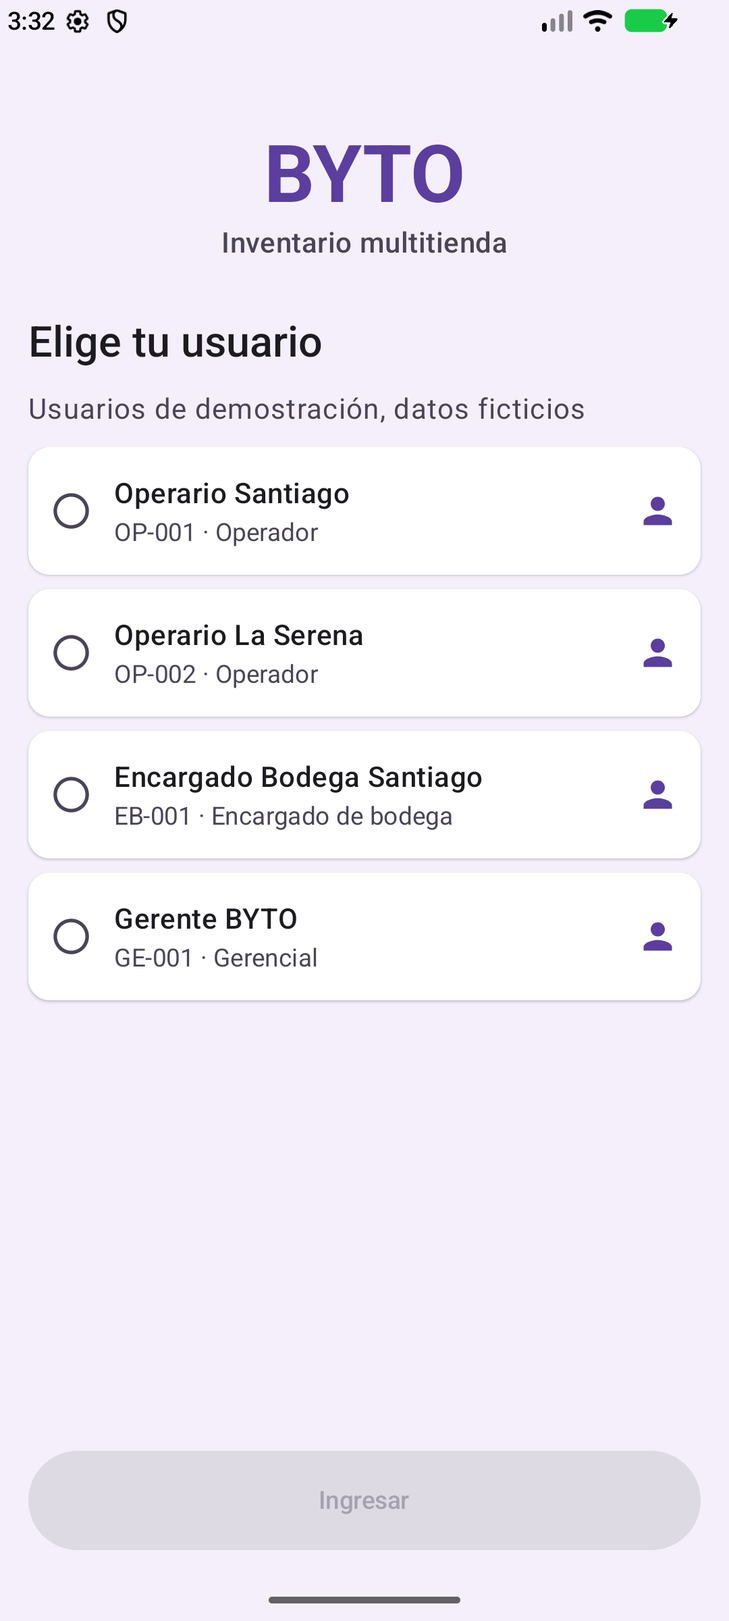
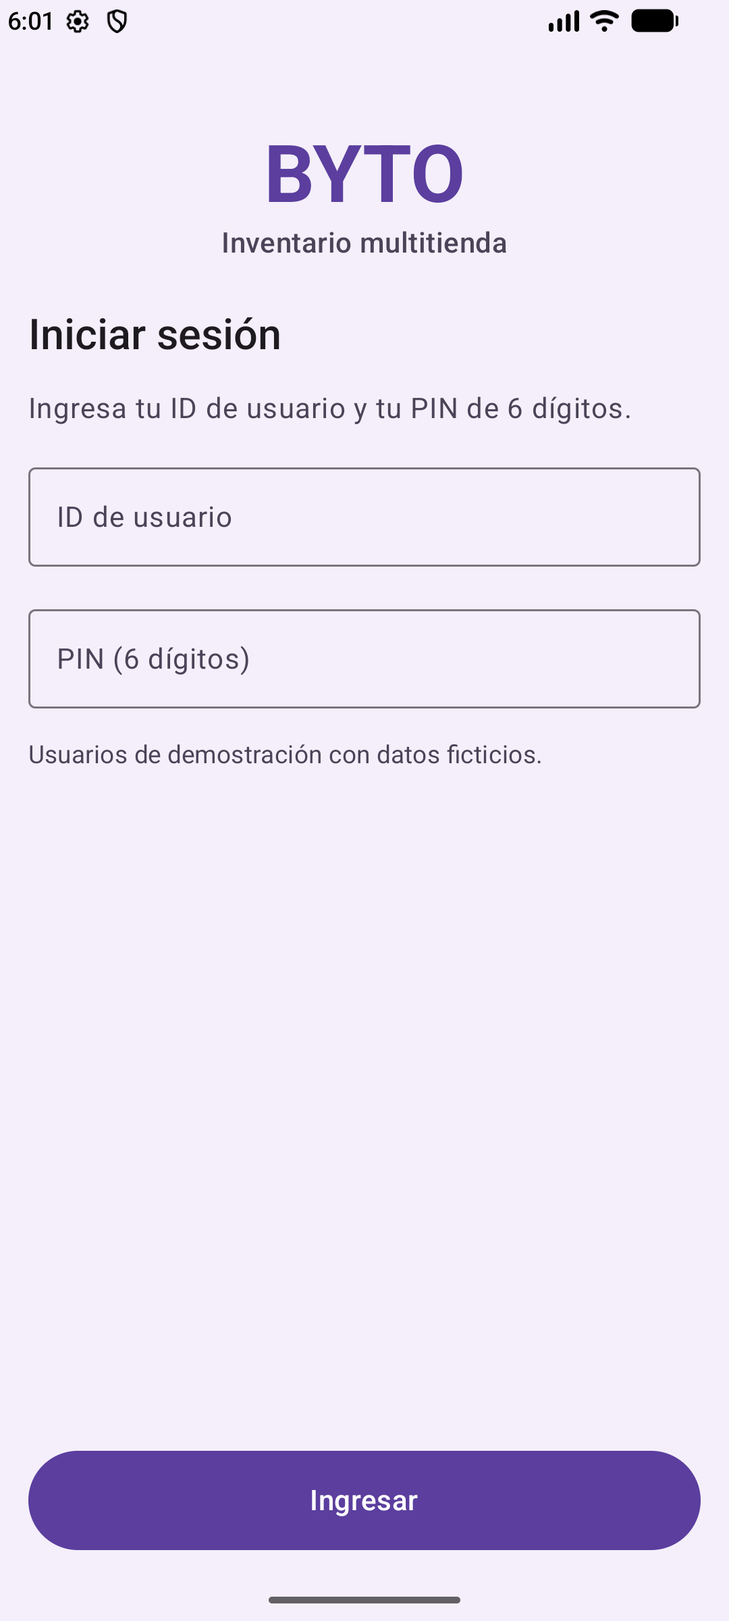
docs: actualizar decisiones, arquitectura, README y capturas
Login con PIN y endpoint 13 (POST /sesion), splash, escaner EAN-13, linterna y compartir CSV. Capturas nuevas de P00, P01 y P15.

diff --git a/README.md b/README.md
@@ -20,15 +20,15 @@ Tomadas en el emulador con los datos sintéticos; están en [`docs/capturas/`](d
 
 | Pantalla | Capturas |
 |---|---|
-| P00 Splash Screen | Animación de carga inicial y SplashScreen API |
-| P01 Login | Login con ID de usuario y PIN de 6 dígitos |
+| P00 Splash | [Splash del sistema](docs/capturas/P00_splash_sistema.png) · [Pantalla de carga](docs/capturas/P00_splash_carga.png) |
+| P01 Login | [ID y PIN](docs/capturas/P01_login.png) · [Error de validación](docs/capturas/P01_login_error_validacion.png) |
 | P08 Buscar por código | [Resultado](docs/capturas/P08_buscar_resultado.png) · [Error de validación](docs/capturas/P08_buscar_error_validacion.png) |
 | P09 Registrar movimiento | [Stock resultante](docs/capturas/P09_registrar_stock_resultante.png) · [Error de validación](docs/capturas/P09_registrar_error_validacion.png) |
 | P11 Alertas | [Alertas abiertas](docs/capturas/P11_alertas.png) |
 | P12 Declarar reposición | [Campos obligatorios](docs/capturas/P12_reposicion_campos_obligatorios.png) · [Reposición ya abierta](docs/capturas/P12_reposicion_ya_abierta.png) |
 | P13 Historial | [Movimientos](docs/capturas/P13_historial.png) · [Error de rango de fechas](docs/capturas/P13_historial_error_rango.png) |
 | P14 Ubicaciones | [Listado](docs/capturas/P14_ubicaciones.png) · [Confirmar desactivación](docs/capturas/P14_ubicaciones_confirmar.png) |
-| P15 Exportar reporte | [Formulario](docs/capturas/P15_exportar.png) · [Compartir CSV](docs/capturas/P15_exportar_error_validacion.png) |
+| P15 Exportar reporte | [Formulario](docs/capturas/P15_exportar.png) · [Error de validación](docs/capturas/P15_exportar_error_validacion.png) · [Compartir el reporte](docs/capturas/P15_exportar_compartir.png) |
 | P17 Escanear código | [Sin permiso de cámara](docs/capturas/P17_escaner_sin_permiso.png) · [Vista de la cámara (emulador)](docs/capturas/P17_escaner_camara_emulador.png) |
 
 ---
@@ -43,7 +43,7 @@ Tomadas en el emulador con los datos sintéticos; están en [`docs/capturas/`](d
 | Navegación | Navigation Compose |
 | Estado | StateFlow + ViewModel |
 | Persistencia local | Room (SQLite), con KSP |
-| Cámara y escáner | CameraX + ML Kit Barcode Scanning (compatible con todos los formatos: EAN, QR, Code 128, etc.) |
+| Cámara y escáner | CameraX + ML Kit Barcode Scanning (modelo incluido, funciona sin conexión; acepta los EAN-13 del catálogo y avisa ante cualquier otro código) |
 | Inyección de dependencias | Manual (AppContainer) |
 | Pruebas | JUnit (unitarias) y AndroidJUnit4 (instrumentadas, con Room en memoria) |
 | Control de versiones | Git + GitHub |
@@ -56,9 +56,9 @@ Tomadas en el emulador con los datos sintéticos; están en [`docs/capturas/`](d
 com.byto.inventario
 ├── di/                  Inyección de dependencias (AppContainer, FabricaViewModels)
 ├── domain/              Lógica pura con pruebas: ReglasInventario, ValidadorEan, Permisos,
-│                        Fechas, Regiones, ValidacionReposicion, ReporteCsv
+│                        Fechas, Regiones, ValidacionLogin, ValidacionReposicion, ReporteCsv
 ├── data/
-│   ├── model/           Modelos (Producto, Existencia, Movimiento, Alerta, Ubicacion, Usuario con PIN…)
+│   ├── model/           Modelos (Producto, Existencia, Movimiento, Alerta, Ubicacion, Usuario…)
 │   ├── repository/      Contratos (InventarioRepository, SesionRepository, SimuladorConexion)
 │   ├── local/           Room: BytoDatabase, entidades, DAOs y LocalInventarioRepository
 │   └── fake/            Datos sintéticos y repositorio en memoria (para pruebas)
@@ -86,8 +86,8 @@ com.byto.inventario
 
 | Código | Pantalla |
 |---|---|
-| P00 | Splash Screen: pantalla de carga inicial animada en Jetpack Compose |
-| P01 | Login profesional con credenciales (ID de usuario y contraseña de 6 dígitos / PIN) |
+| P00 | Splash: splash del sistema (SplashScreen API) y pantalla de carga en Jetpack Compose |
+| P01 | Login con ID de usuario y PIN de 6 dígitos; el repositorio verifica las credenciales |
 | P02 | Selección de ubicación |
 | P03 | Inicio Operador |
 | P04 | Inicio Encargado |
@@ -103,18 +103,18 @@ com.byto.inventario
 | P14 | Administrar ubicaciones (Gerente): activar o desactivar tiendas y bodegas |
 | P15 | Exportar reporte (Gerente): stock, movimientos o alertas en CSV con opción de compartir |
 | P16 | Sin conexión |
-| P17 | Escanear código: lectura universal de códigos de barras y QR (CameraX + ML Kit) y vibración al leer |
+| P17 | Escanear código: lectura de EAN-13 con la cámara (CameraX + ML Kit), aviso de error ante QR u otros códigos y vibración al leer |
 
 ### Funcionalidades transversales implementadas
 
 | Funcionalidad | Detalle |
 |---|---|
 | Persistencia local | Room: movimientos, alertas y estado de las ubicaciones se conservan al cerrar la app |
-| Recursos nativos | Cámara (escáner universal), almacenamiento ("Guardar como"), compartir archivos (`Intent.ACTION_SEND` para CSV) y vibración |
+| Recursos nativos | Cámara (escáner EAN-13 con linterna y manejo del permiso), almacenamiento ("Guardar como"), compartir archivos (`Intent.ACTION_SEND` para CSV) y vibración |
 | Formularios validados | Errores por campo con ícono y texto en todos los formularios (P01, P08, P09, P12, P13 y P15); reglas en `domain/` con pruebas unitarias |
 | Animaciones | Transiciones entre pantallas, splash de carga (P00), resultado de búsqueda (P08), stock resultante (P09), confirmación (P10), filas de listas (P11, P13), estado de ubicaciones (P14), marco del escáner (P17) y mensajes de error |
 | Accesibilidad | Botones de 48 dp o más, contraste ≥ 4,5:1, estados siempre con texto además del color y descripciones para TalkBack |
-| Privacidad | Autenticación con ID y PIN de 6 dígitos; los datos no se respaldan en la nube; únicos permisos: cámara y vibración |
+| Privacidad | Solo IDs anonimizados (OP-001, EB-001…); login con ID y PIN ficticio de 6 dígitos que las pantallas nunca reciben; los datos no se respaldan en la nube; únicos permisos: cámara y vibración |
 
 ---
 
@@ -128,12 +128,14 @@ En el primer arranque la app guarda en Room estos datos ficticios; desde ahí, c
 - **300 existencias** (12 ubicaciones × 25 productos)
 - **6 movimientos históricos** y **7 alertas iniciales** preconfiguradas
 
-| Usuario | Perfil | PIN | Ubicaciones |
-|---|---|---|---|
-| OP-001 · Operario Santiago | Operador | 123456 | T-ST-1, T-ST-2, T-ST-3 |
-| OP-002 · Operario La Serena | Operador | 123457 | T-LS-1, T-LS-2, T-LS-3 |
-| EB-001 · Encargado Bodega Santiago | Encargado de bodega | 123458 | B-ST-1 y consulta de T-ST-1 a T-ST-3 |
-| GE-001 · Gerente BYTO | Gerente | 123459 | Todas |
+| Usuario | Perfil | Ubicaciones |
+|---|---|---|
+| OP-001 · Operario Santiago | Operador | T-ST-1, T-ST-2, T-ST-3 |
+| OP-002 · Operario La Serena | Operador | T-LS-1, T-LS-2, T-LS-3 |
+| EB-001 · Encargado Bodega Santiago | Encargado de bodega | B-ST-1 y consulta de T-ST-1 a T-ST-3 |
+| GE-001 · Gerente BYTO | Gerente | Todas |
+
+Cada usuario tiene un PIN ficticio de 6 dígitos. Están definidos en un solo lugar, `DatosSinteticos.pinesDemo` (`app/src/main/java/com/byto/inventario/data/fake/DatosSinteticos.kt`), y listados en la guía de demostración.
 
 ---
 
@@ -159,11 +161,11 @@ Umbrales de stock: Normal ≥ 10 · Bajo 5–9 · Crítico 1–4 · Sin stock 0.
 2. Abrir la carpeta en **Android Studio** (una versión reciente, compatible con Android Gradle Plugin 9.4).
 3. Esperar a que termine la sincronización de Gradle (o usar **File › Sync Project with Gradle Files**).
 4. Elegir un emulador o teléfono con **Android 8.0 (API 26)** o superior.
-5. Ejecutar con **Run › Run 'app'** y autenticarse con el ID de usuario y PIN de 6 dígitos en el login (P01).
+5. Ejecutar con **Run › Run 'app'** e iniciar sesión en el login (P01) con un ID de usuario y su PIN de demostración (ver "Datos sintéticos").
 
 > No se requiere backend, cuentas ni claves.
 
-**Probar el escáner (P17):** abre `docs/anexos/codigos_prueba_EAN13.html` en el navegador (o imprímelo al 100 %) y escanea cualquiera de los 25 códigos (o cualquier código QR/barras real) desde Buscar por código › Escanear con cámara. En el emulador, configura la cámara trasera como *Webcam0* en el Device Manager, o usa un teléfono real.
+**Probar el escáner (P17):** abre `docs/anexos/codigos_prueba_EAN13.html` en el navegador (o imprímelo al 100 %) y escanea cualquiera de los 25 códigos desde Buscar por código › Escanear con cámara. En el emulador, configura la cámara trasera como *Webcam0* en el Device Manager, o usa un teléfono real.
 
 **Ver la pantalla Sin conexión (P16):** en el login, mantén presionado el título "BYTO" para cortar la conexión simulada; repite el gesto para restablecerla.
 

diff --git a/docs/decisiones_E1.md b/docs/decisiones_E1.md
@@ -14,18 +14,18 @@ Documento vivo con las decisiones confirmadas por el estudiante. Fuente para las
 - Sin backend: lo construirá el estudiante en una entrega posterior, con un supervisor.
 - **Persistencia local con Room**: los datos sobreviven al cierre de la app (reemplaza la decisión anterior de "datos solo en memoria").
 - **Escáner con cámara: obligatorio en E2** (Caso §3.3 y §4.1, confirmado por el estudiante).
-- QR: fuera del alcance (solo EAN-13).
+- QR y otros formatos: el escáner los detecta, pero solo acepta EAN-13 (el formato del catálogo); ante cualquier otro código muestra un aviso de error y sigue escaneando.
 
 ## Requisitos de la rúbrica (Evaluación Parcial 2) y cómo se cumplen
 | Indicador | Peso | Cómo lo cumple BYTO |
 |---|---|---|
-| IE 2.1.1 Interfaz y navegación | 15 % | Pantallas P01–P17 según los mockups, barra inferior y navegación por perfil |
+| IE 2.1.1 Interfaz y navegación | 15 % | Pantallas P00–P17 (P01–P16 según los mockups), barra inferior y navegación por perfil |
 | IE 2.1.2 Formularios validados | 15 % | Validación por campo con mensaje e ícono (ver "Formularios y validaciones") |
 | IE 2.2.1 Validación desacoplada | 10 % | Reglas en `domain/`; el ViewModel valida y la pantalla solo muestra el estado |
 | IE 2.2.2 Animaciones | 10 % | Ver "Animaciones" |
 | IE 2.3.1 Modularidad y persistencia local | 15 % | MVVM por capas + Room detrás de `InventarioRepository` |
 | IE 2.3.2 GitHub + Trello | 20 % | Commits técnicos de ambos integrantes y tablero Trello con tareas repartidas (fuera del código) |
-| IE 2.4.1 Dos o más recursos nativos | 15 % | Cámara (escáner), almacenamiento de archivos (CSV) y vibración |
+| IE 2.4.1 Dos o más recursos nativos | 15 % | Cámara con linterna (escáner), almacenamiento de archivos (CSV), compartir el CSV con otras apps y vibración |
 
 - Entrega: repositorio **público** en GitHub, README con nombres e instrucciones, y el mismo código subido a AVA.
 - **Ningún cambio al repositorio después de la fecha de entrega** (la pauta lo sanciona con nota 1.0).
@@ -51,13 +51,17 @@ Documento vivo con las decisiones confirmadas por el estudiante. Fuente para las
 | T-CC-2 | BYTO Concepción Norte | Tienda | B-CC-1 | Activa |
 | T-CC-3 | BYTO Concepción Sur | Tienda | B-CC-1 | **Inactiva** (para demostrar la administración de tiendas) |
 
-## Usuarios simulados (login sin contraseña, selección desde una lista)
+## Usuarios simulados (login con ID de usuario y PIN de 6 dígitos)
 | ID anonimizado | Etiqueta | Perfil | Ubicaciones |
 |---|---|---|---|
 | OP-001 | Operario Santiago | Operador | T-ST-1, T-ST-2, T-ST-3 |
 | OP-002 | Operario La Serena | Operador | T-LS-1, T-LS-2, T-LS-3 |
 | EB-001 | Encargado Bodega Santiago | Encargado de bodega | B-ST-1 + T-ST-1, T-ST-2, T-ST-3 (consulta) |
 | GE-001 | Gerente BYTO | Gerencial | Todas |
+
+- El login (P01) pide el ID anonimizado y un PIN de 6 dígitos. Los PIN son ficticios, de demostración, y están escritos en un solo lugar del código (`DatosSinteticos.pinesDemo`); para la presentación se listan en la guía de demostración.
+- La verificación la hace el repositorio (`autenticar`, endpoint 13): los ViewModels y las pantallas nunca reciben los PIN. Con el backend real, la hará el servidor.
+- El ID se acepta en mayúsculas o minúsculas ("op-001" = "OP-001").
 
 ## Umbrales de stock (globales, iguales para todos los productos y ubicaciones)
 | Estado | Condición | Uso en E2 |
@@ -177,19 +181,21 @@ Sin marcas. Ropa en talla única M (las tallas como variantes quedan fuera de E2
 ## Persistencia local (Room)
 - Room guarda ubicaciones (con su estado activa/inactiva), productos, existencias, movimientos y alertas.
 - **Primer arranque**: si la base está vacía, se carga con los datos de este documento (`DatosSinteticos`). Desde ahí, todo cambio queda guardado al cerrar la app.
-- Los usuarios simulados siguen definidos en el código (son fijos y no se editan).
-- La sesión (usuario y ubicación activa) sigue en memoria: al abrir la app se vuelve a elegir usuario.
+- Los usuarios simulados y sus PIN de demostración siguen definidos en el código (`DatosSinteticos`; son fijos y no se editan).
+- La sesión (usuario y ubicación activa) sigue en memoria: al abrir la app hay que iniciar sesión de nuevo.
 - Para volver a los datos iniciales en una demostración: borrar los datos de la app desde los ajustes de Android.
 - Sin respaldo automático (`allowBackup="false"` y reglas que excluyen todo): el inventario no se copia a la nube ni a otro teléfono (Caso §5.1), y al reinstalar la app vuelve a los datos iniciales.
 
 ## Recursos nativos del dispositivo
 | Recurso | Dónde se usa | Permiso | Comportamiento |
 |---|---|---|---|
-| **Cámara** (escáner EAN-13) | P17 Escanear código, desde P08 | `CAMERA`, pedido al usarlo | Lee el código y abre el producto encontrado. Si el permiso se niega, se explica por qué hace falta, se ofrece abrir los ajustes y la búsqueda manual de P08 sigue disponible. |
+| **Cámara** (escáner EAN-13, con linterna) | P17 Escanear código, desde P08 | `CAMERA`, pedido al usarlo | Lee el código y abre el producto encontrado. Un botón enciende la linterna (flash) para leer con poca luz. Si el permiso se niega, se explica por qué hace falta, se ofrece abrir los ajustes y la búsqueda manual de P08 sigue disponible. |
 | **Almacenamiento de archivos** (reporte CSV) | P15 Exportar reporte | Ninguno | El sistema abre "Guardar como" y el usuario elige la carpeta (por ejemplo, Descargas). Funciona igual desde Android 8. |
 | **Vibración** | P17 al leer un código | `VIBRATE` (se concede al instalar) | Vibración corta al leer un código. Siempre va acompañada de un aviso visual, nunca es la única señal. |
+| **Compartir archivos** | P15, después de guardar | Ninguno | Abre el selector de apps del sistema (`Intent.ACTION_SEND`) con el CSV recién guardado. El botón "Compartir el último reporte" queda disponible tras el primer guardado. |
 
-- Lectura solo de EAN-13 (formato del catálogo), con el modelo de ML Kit incluido en la app para que funcione sin conexión.
+- ML Kit (modelo incluido en la app, funciona sin conexión) detecta todos los formatos, pero solo se acepta un EAN-13 válido (formato del catálogo). Si en la imagen hay varios códigos, se usa el primero válido. Ante un QR u otro código se muestra "Ese código no es de un producto BYTO…" y se sigue escaneando.
+- Un EAN-13 válido que no corresponde a un producto de la ubicación vuelve a P08, que muestra "Producto no encontrado en esta ubicación".
 - El código leído pasa por la misma validación que la búsqueda manual (`ValidadorEan`).
 - Pantalla nueva **P17 Escanear código** (sin mockup): vista de la cámara a pantalla completa con un marco guía, botón Volver y el texto "Apunta al código de barras". Se abre con el botón "Escanear con cámara" de P08.
 - En el mockup P08, la ayuda "La lectura con cámara estará disponible en la entrega final" se reemplaza por "13 dígitos, o usa la cámara".
@@ -213,6 +219,8 @@ Cada campo muestra su error debajo, con ícono y texto. El color nunca es la ún
 
 | Pantalla | Campo | Validación |
 |---|---|---|
+| P01 Login | ID de usuario | Obligatorio; debe existir (lo verifica el repositorio) |
+| | PIN | Obligatorio; exactamente 6 dígitos; debe ser el del usuario (lo verifica el repositorio) |
 | P08 Buscar por código | EAN-13 | Obligatorio; solo dígitos; exactamente 13; dígito verificador correcto; producto existente |
 | P09 Registrar movimiento | Tipo | Obligatorio |
 | | Cantidad | Según el tipo (ver "Reglas de movimientos"); salida ≤ stock; ajuste no deja stock < 0 |
@@ -226,6 +234,7 @@ Cada campo muestra su error debajo, con ícono y texto. El color nunca es la ún
 
 ## Animaciones
 Las animaciones deben dar fluidez o retroalimentación, no decorar. Respetan la escala de animación del sistema, que Compose aplica automáticamente.
+- Splash al abrir la app: primero el del sistema (SplashScreen API) y luego la pantalla de carga P00 en Compose.
 - Transición entre pantallas (fundido y desplazamiento) en Navigation Compose.
 - Aparición y desaparición de los mensajes de error por campo y del resultado de P08.
 - Cambio animado del "stock resultante" en P09 y del color de los chips de estado.

diff --git a/docs/arquitectura_API.md b/docs/arquitectura_API.md
@@ -3,6 +3,7 @@
 Confirmado por el estudiante:
 - **Etapa (c)**: Navigation Compose, retardo simulado (~300 ms) e interruptor de "sin conexión".
 - **Entrega 2**: Room para la persistencia local, cámara con CameraX y ML Kit, exportación CSV y vibración.
+- **Mejoras posteriores**: splash (SplashScreen API + P00), login con ID y PIN verificado por el repositorio, linterna en el escáner y compartir el CSV.
 
 ## Arquitectura
 - App Android: Kotlin + Jetpack Compose + MVVM, un solo módulo.
@@ -14,7 +15,7 @@ Confirmado por el estudiante:
 - Reglas de negocio puras en `domain/ReglasInventario` (cálculo de stock resultante, estado del stock y validaciones). En E2 las usan el repositorio local y la vista previa de "stock resultante". Cuando exista el backend, él será la autoridad y la app las usará solo para la vista previa.
 - Sesión (usuario y ubicación activa) en memoria, en `SesionRepository`.
 - Dependencias creadas a mano en `AppContainer` (sin Hilt ni Koin). `AppContainer` crea la base de datos de Room una sola vez para toda la app.
-- **Recursos nativos** (cámara, archivos y vibración):
+- **Recursos nativos** (cámara con linterna, archivos, compartir y vibración):
   - Viven fuera de los repositorios de inventario, en `dispositivo/`, para que la lógica no dependa de Android y siga siendo fácil de probar.
   - La pantalla pide los permisos y abre los selectores del sistema, porque estas APIs necesitan una Activity.
   - El ViewModel decide qué hacer con el resultado.
@@ -26,7 +27,7 @@ com.byto.inventario
 ├── BytoApp.kt                 (Application: crea el AppContainer)
 ├── MainActivity.kt
 ├── di/AppContainer.kt
-├── domain/                    (ReglasInventario, ValidadorEan, Permisos, Fechas, ReporteCsv: lógica pura)
+├── domain/                    (ReglasInventario, ValidadorEan, ValidacionLogin, ValidacionReposicion, Permisos, Fechas, Regiones, ReporteCsv: lógica pura)
 ├── data/
 │   ├── model/                 (Ubicacion, Producto, Existencia, Movimiento, Alerta, Usuario, enums)
 │   ├── repository/            (InventarioRepository, SesionRepository)
@@ -37,7 +38,7 @@ com.byto.inventario
     ├── theme/                 (colores y tipografía accesibles)
     ├── navigation/            (rutas y NavHost)
     ├── components/            (botones, tarjetas, chips de estado reutilizables)
-    └── screens/               (login, seleccion, inicio, inventario, detalle, buscar, escaner, movimiento,
+    └── screens/               (splash, login, seleccion, inicio, inventario, detalle, buscar, escaner, movimiento,
                                 alertas, reposicion, historial, ubicaciones, exportar, sinconexion)
 ```
 
@@ -49,7 +50,8 @@ com.byto.inventario
 | Room (runtime + ktx + compiler) | Persistencia local en SQLite | E2 | Aprobada |
 | KSP (plugin de Gradle) | Genera el código de Room a partir de las anotaciones | E2 | Aprobada |
 | CameraX (core, camera2, lifecycle, view) | Mostrar la cámara y entregar imágenes al lector | E2 | Aprobada |
-| ML Kit Barcode Scanning (modelo incluido) | Reconocer el EAN-13 en las imágenes, sin conexión | E2 | Aprobada |
+| ML Kit Barcode Scanning (modelo incluido) | Detectar códigos en las imágenes, sin conexión (la app solo acepta EAN-13) | E2 | Aprobada |
+| Core SplashScreen (`androidx.core:core-splashscreen`) | Splash del sistema al abrir la app, igual en todas las versiones de Android | E2 | Aprobada |
 | Retrofit + convertidor JSON | Llamar a la API REST | Futuro | A decidir |
 
 La vibración y el guardado de archivos usan APIs propias de Android (`Vibrator` y "Guardar como" del sistema) y no requieren librerías.
@@ -67,14 +69,14 @@ No se piden otros permisos. El CSV se guarda con el selector del sistema, que no
 - Fechas: ISO-8601 en UTC, por ejemplo `2026-10-16T13:10:00Z`. La hora del movimiento la asigna el servidor, no el teléfono.
 - Errores: `{ "codigo": "STOCK_INSUFICIENTE", "mensaje": "La salida (5) supera el stock actual (3)." }`
 - Códigos HTTP: 200 OK, 201 creado, 400 datos inválidos, 404 no existe, 409 conflicto de regla (por ejemplo, ubicación inactiva).
-- Autenticación: no definida aún. En E2 el login elige un usuario de una lista. Cuando exista el backend, el servidor debe obtener el operador desde la sesión o el token, no desde el cuerpo de la petición.
+- Autenticación: en E2 el login pide ID de usuario y PIN de 6 dígitos, y el repositorio local los verifica (endpoint 13). Cuando exista el backend, el servidor verificará las credenciales, devolverá un token y obtendrá el operador desde la sesión o el token, no desde el cuerpo de la petición.
 
 ## Endpoints
 En E2 no hay servidor: cada endpoint corresponde a una función de `InventarioRepository`, que implementa el repositorio local. La columna "E2" indica si la app ya lo usa.
 
 | # | Método y ruta | Para qué | Perfil | E2 |
 |---|---|---|---|---|
-| 1 | `GET /usuarios/demo` | Lista de usuarios ficticios para el login simulado | Todos | Sí |
+| 1 | `GET /usuarios/demo` | Lista de usuarios ficticios, sin PIN (filtro de operador del historial) | Encargado, Gerente | Sí |
 | 2 | `GET /ubicaciones?usuarioId=` | Ubicaciones asignadas al usuario (todas si es Gerente) | Todos | Sí |
 | 3 | `PATCH /ubicaciones/{id}` | Habilitar o deshabilitar una ubicación `{ "estado": "ACTIVA" }` | Gerente | Sí |
 | 4 | `GET /ubicaciones/{id}/existencias?q=&estado=` | Inventario de una ubicación con búsqueda y filtro (NORMAL, BAJO, CRITICO, SIN_STOCK) | Operador, Encargado, Gerente | Sí |
@@ -86,6 +88,7 @@ En E2 no hay servidor: cada endpoint corresponde a una función de `InventarioRe
 | 10 | `POST /alertas/reposicion` | Declarar reposición `{ "ubicacionId", "codigoInterno", "observacion" }` (observación opcional) | Encargado | Sí |
 | 11 | `PATCH /alertas/{id}` | Marcar descalce como revisado `{ "estado": "REVISADA" }` | Encargado, Gerente | Sí |
 | 12 | `GET /tablero` | Resumen: totales por ubicación y alertas abiertas | Gerente | Sí |
+| 13 | `POST /sesion` | Iniciar sesión `{ "usuarioId", "pin" }`; devuelve el usuario | Todos | Sí (login P01) |
 
 La exportación CSV (P15) no es un endpoint: la app arma el archivo con los datos que ya obtiene de los endpoints 4, 8 y 9 (Caso §3.4: "se simulará localmente").
 
@@ -124,7 +127,7 @@ Respuesta `201 Created`
 ```
 
 ## Interfaz `InventarioRepository` (Kotlin)
-Una función `suspend` por endpoint; el número es el del endpoint. La implementan `LocalInventarioRepository` (E2, Room) y `FakeInventarioRepository` (pruebas). En el futuro la implementará también `RemoteInventarioRepository`. Código en `data/repository/InventarioRepository.kt`.
+Una función `suspend` por endpoint; el número es el del endpoint. `Usuario` no incluye el PIN: solo `autenticar` lo recibe. La implementan `LocalInventarioRepository` (E2, Room) y `FakeInventarioRepository` (pruebas). En el futuro la implementará también `RemoteInventarioRepository`. Código en `data/repository/InventarioRepository.kt`.
 
 ```kotlin
 interface InventarioRepository {
@@ -147,6 +150,7 @@ interface InventarioRepository {
     ): Alerta
     suspend fun marcarDescalceRevisado(alertaId: String): Alerta                         // 11
     suspend fun obtenerTablero(): Tablero                                                // 12
+    suspend fun autenticar(usuarioId: String, pin: String): Usuario                      // 13
 }
 ```
 
@@ -165,6 +169,7 @@ Tipos de apoyo (en `data/model/`):
 | Código | HTTP | Cuándo |
 |---|---|---|
 | `NO_ENCONTRADO` | 404 | Usuario, ubicación, existencia o alerta inexistente |
+| `PIN_INCORRECTO` | 401 | El PIN no corresponde al usuario (login) |
 | `CANTIDAD_INVALIDA` | 400 | Cantidad fuera de lo permitido para el tipo de movimiento |
 | `STOCK_INSUFICIENTE` | 400 | Salida mayor que el stock actual |
 | `MOTIVO_OBLIGATORIO` | 400 | Ajuste sin motivo |

diff --git a/CLAUDE.md b/CLAUDE.md
@@ -9,7 +9,8 @@ Instrucciones para Claude Code en este repositorio. Léelas completas antes de c
 - Las decisiones de negocio están en `docs/decisiones_E1.md` (el nombre del archivo se conserva, pero su contenido es de la E2) y la arquitectura y el contrato de la API en `docs/arquitectura_API.md`. **Esos documentos mandan**: no inventes requisitos, ubicaciones, usuarios, productos ni reglas que no estén ahí. Si algo falta o es ambiguo, pregunta antes de decidir.
 - Material de referencia **solo local** (excluido en `.gitignore`, puede no existir en otro clon):
   - `docs/002_Formato_Caso_MultiTienda.pdf`: el Caso.
-  - `docs/Ev. Parcial 2_Estudiante_Encargo_DSY1105.pdf`: la pauta.
+  - `docs/Ev. Parcial 2_Estudiante_Encargo_DSY1105.pdf`: la pauta del encargo.
+  - `docs/Evaluación Parcial 3_Estudiante_Presentación_DSY1105.pdf`: la rúbrica de la presentación.
   - `docs/BYTO_mockups_1080x2400/`: los mockups P01 a P16.
 
 ## Stack
@@ -19,21 +20,22 @@ Instrucciones para Claude Code en este repositorio. Léelas completas antes de c
   - `LocalInventarioRepository` guarda los datos en el teléfono, carga `DatosSinteticos` en el primer arranque y conserva el retardo simulado (~300 ms) y el interruptor de "sin conexión".
   - `FakeInventarioRepository` (en memoria) queda para las pruebas.
   - En el futuro se agregará `RemoteInventarioRepository` (Retrofit hacia Spring Boot), que cumplirá la misma interfaz `InventarioRepository`.
-- Recursos nativos de la E2: **cámara** (escáner EAN-13), **guardado de archivos** (reporte CSV) y **vibración**.
+- Recursos nativos: **cámara** (escáner EAN-13, con linterna), **guardado de archivos** (reporte CSV), **compartir** el CSV con otras apps y **vibración**.
 - Dependencias creadas a mano en `di/AppContainer.kt` (sin Hilt ni Koin).
 - **No agregues librerías nuevas** sin preguntar primero y explicar para qué sirven. Aprobadas por ahora:
   - las de la plantilla de Android Studio;
   - Navigation Compose;
   - Room, con el plugin KSP;
   - CameraX;
-  - ML Kit Barcode Scanning, en su versión con el modelo incluido.
+  - ML Kit Barcode Scanning, en su versión con el modelo incluido;
+  - Core SplashScreen (`androidx.core:core-splashscreen`), para el splash del sistema.
 
 ## Estructura de paquetes
 ```
 com.byto.inventario
 ├── BytoApp.kt, MainActivity.kt
 ├── di/AppContainer.kt
-├── domain/                           (lógica pura: ReglasInventario, ValidadorEan, Permisos, Fechas, ReporteCsv)
+├── domain/                           (lógica pura: ReglasInventario, ValidadorEan, ValidacionLogin, ValidacionReposicion, Permisos, Fechas, Regiones, ReporteCsv)
 ├── data/model/                       (Ubicacion, Producto, Existencia, Movimiento, Alerta, Usuario, enums)
 ├── data/repository/                  (InventarioRepository, SesionRepository)
 ├── data/local/                       (Room: BytoDatabase, entidades, DAOs, LocalInventarioRepository)
@@ -82,6 +84,8 @@ com.byto.inventario
 
 ## Seguridad y privacidad (Leyes 19.628 y 21.719, Caso §5.1)
 - Nunca incluyas claves, tokens, contraseñas ni credenciales en el código o en el repositorio.
+  - Única excepción: los PIN **ficticios** de los 4 usuarios de demostración, escritos solo en `DatosSinteticos.pinesDemo`. No se repiten en pantallas, `strings.xml`, README ni pruebas de interfaz; para la presentación se listan en la guía de demostración.
+  - Los PIN solo los lee el repositorio en `autenticar`. `Usuario`, los ViewModels y las pantallas no los contienen ni los reciben.
 - Nada de datos personales reales: ni nombres, ni RUT, ni correos, ni direcciones, ni marcas comerciales reales.
 - Permisos permitidos: solo `CAMERA` (pedido al usarlo, con manejo del rechazo) y `VIBRATE`. No pidas otros (ni ubicación ni almacenamiento: el CSV se guarda con el selector del sistema).
 - No subas al repositorio el material de referencia de `docs/` que está en `.gitignore`.
